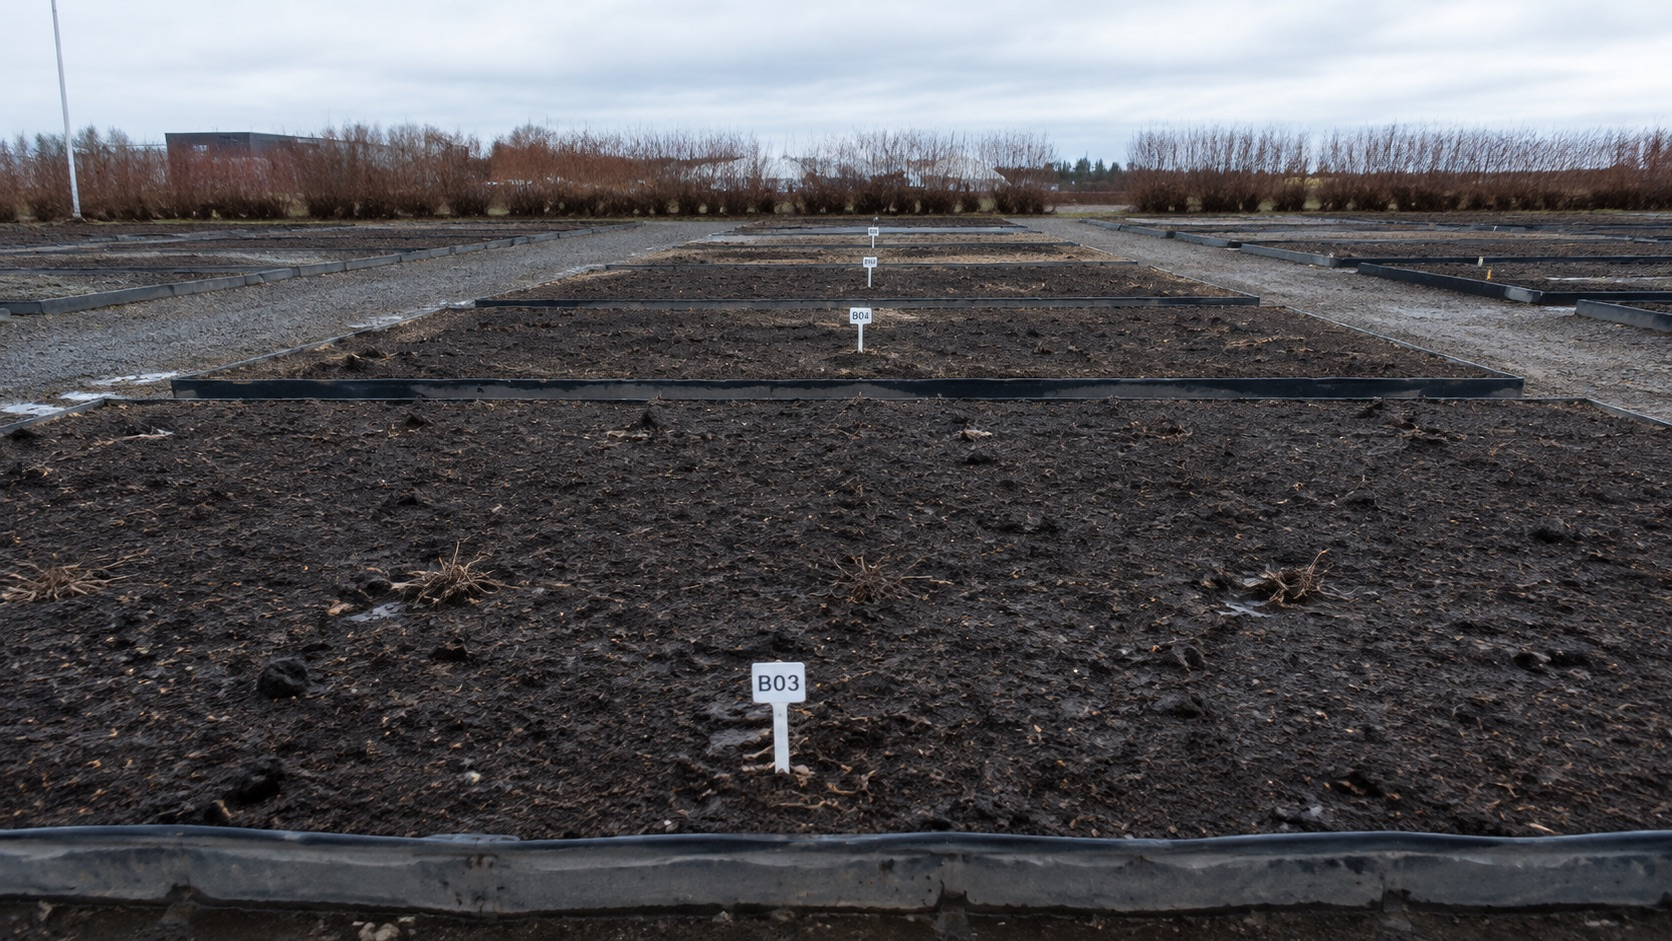
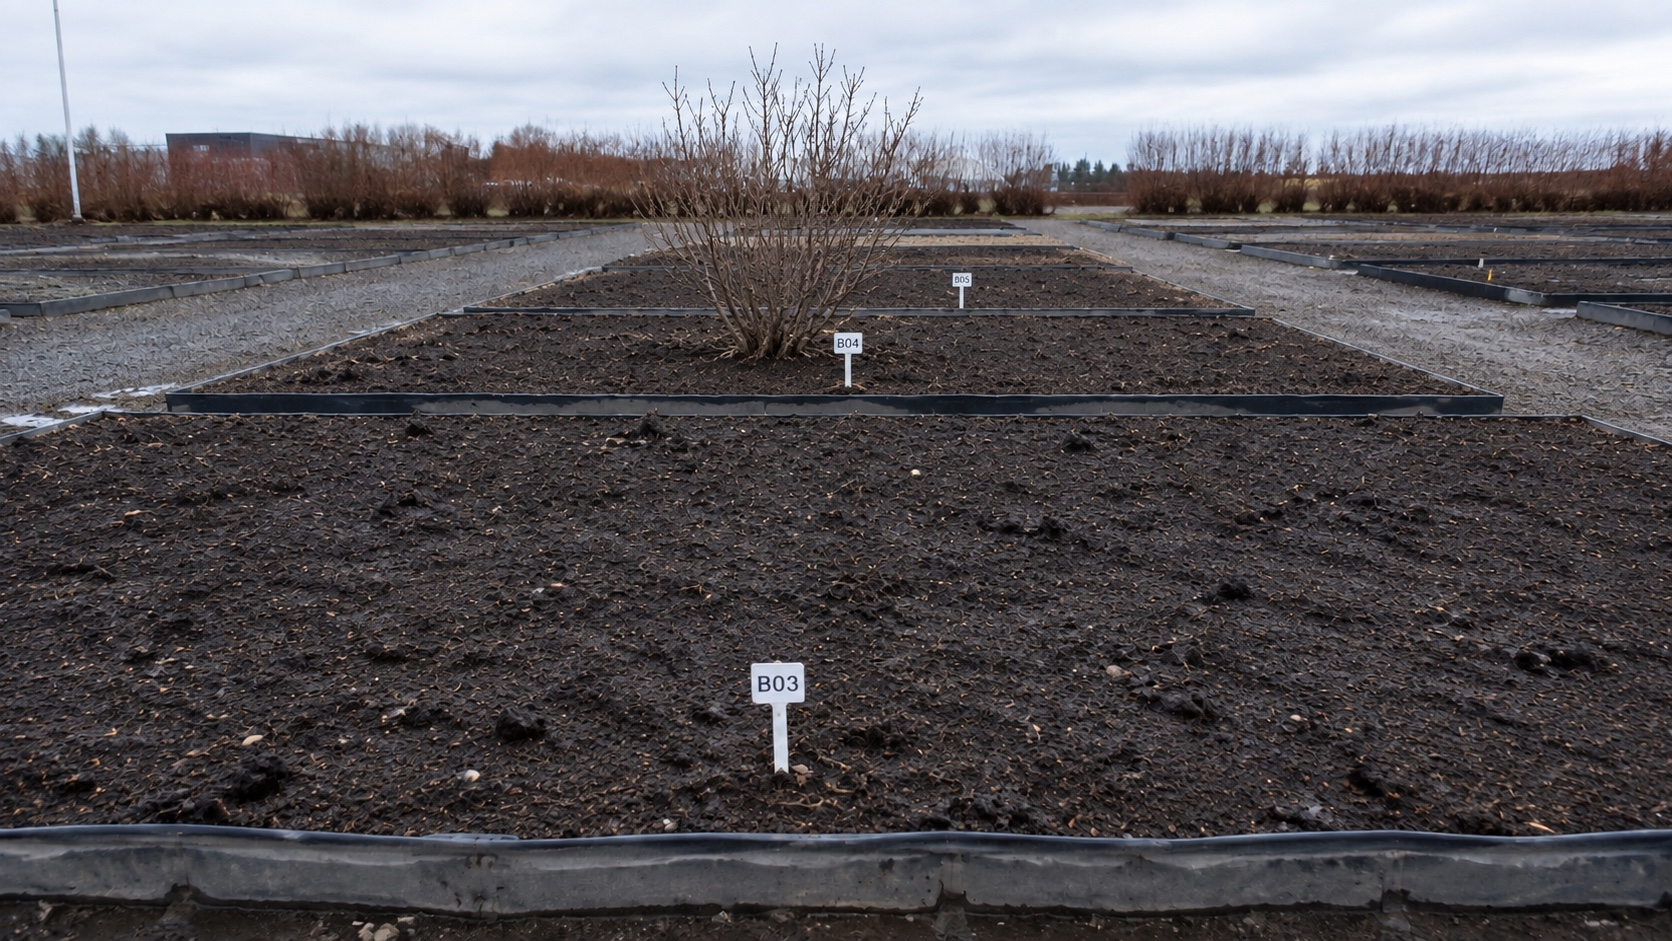
Clarify the novel timeline and evidence chain

Changed region(s): [[0.0, 0.0616, 1.0, 0.8937], [0.1866, 0.9862, 0.2488, 1.0], [0.0, 0.1541, 0.0622, 0.1849]]

diff --git a/js/reader.js b/js/reader.js
@@ -24,8 +24,8 @@ const chapterVisuals = {
   },
   'winter-beds': {
     src: '../assets/images/winter-trial-beds.jpg',
-    alt: 'Empty-looking winter nursery beds with B03, B04, and B05 markers',
-    label: 'RECORD 09 / RENA WINTER INVENTORY'
+    alt: 'Late-winter nursery beds B03, B04, and B05; a leafless woody hibiscus stands in B04 while the neighboring lily beds are bare above ground',
+    label: '冬季盘点中的B04：C株已经落叶，但地上枝条仍然存在；相邻百合床位看似空置，鳞茎在地下休眠。'
   },
   'condition-survey': {
     src: '../assets/images/condition-survey.jpg',

diff --git a/content/04-autumn.md b/content/04-autumn.md
@@ -2,9 +2,9 @@
 
 那年秋天来得很慢。
 
-后来想起时，我总觉得八月拖得格外长。天气迟迟没有凉下来，旧植物园里的草晒得发白，西温室外那排夹竹桃还在开。事故以后，铁丝网外多了一圈警戒带，红白相间，风大的时候会拍在金属网上。花从后面探出来，颜色亮得不合时宜。
+那一年的八月在记忆里格外长。天气迟迟没有凉下来，旧植物园里的草晒得发白，西温室外那排夹竹桃还在开。事故以后，铁丝网外多了一圈警戒带，红白相间，风大的时候会拍在金属网上。花从后面探出来，颜色亮得不合时宜。
 
-花期不会因为有人死了往后推，温室的施工也没有因此永久停下。需要迁走的植物照旧迁走，需要封闭的区域照旧封闭。事故调查占用了几天，之后工程重新排期，安全检查扩大了一轮，原本贴在门口的通知换成另一张。工作人员来来去去，有人负责清点器材，有人把临时堆放的东西从通道里搬走。
+花期不会因为有人死了往后推，温室的施工也没有因此永久停下。需要迁走的植物照旧迁走，需要封闭的区域照旧封闭。现场封锁和初步调查持续了几天；正式事故报告在几个月以后完成。工程随后重新排期，安全检查扩大了一轮，原本贴在门口的通知换成另一张。工作人员来来去去，有人负责清点器材，有人把临时堆放的东西从通道里搬走。
 
 H-17的B株也不在那里了。
 
@@ -12,9 +12,9 @@ H-17的B株也不在那里了。
 
 我知道。
 
-事故后的第二天傍晚，我才知道Rui已经死了。
+八月十八日十八点零七分，园方事故联络员打来电话，我才知道Rui已经死了。我不在Rui的紧急联系人名单里；园方先通知了家属，之后才按照前一日的现场人员名单找到我。
 
-上午的时候，我还以为已经在路上。
+八月十八日上午，我还以为Rui已经在去往外地项目的路上。
 
 按照前一天说好的安排，应该一早离开这座城，到另一个城市和项目组汇合。至少两个月，也可能更久。前一天我们刚吵过，所以一上午没有消息，我没有觉得奇怪。我甚至考虑过要不要主动说点什么，最后什么也没有发。
 
@@ -24,7 +24,7 @@ H-17的B株也不在那里了。
 
 那一天很长。我记得光很好，H-17开了花。我记得自己吃过东西，打开过电脑，做过一些现在已经想不起内容的工作。傍晚电话响起来以前，在我的认知里，Rui只是已经离开了这座城市。
 
-电话里的人先确认了一遍我的名字，又确认Rui的名字和地点。说到最后，内容其实很短：西温室，坠落，发现时已经没有生命迹象。
+电话里的人先确认我的名字，又确认Rui的名字和地点。内容很短：八月十八日十六点五十分，西温室，上层维护廊道，发现时已经没有生命迹象。
 
 后面的事情花了几个月。最开始几天，Rui的东西还在原来的地方。
 
@@ -62,9 +62,9 @@ Rui：明天带
 
 有一次Rui只发来一张模糊的玻璃屋顶，我把前后几天都翻完，仍想不起为什么。
 
-后来翻动的间隔越来越长，也没有哪一天特意做出“不看了”的决定。
+翻动聊天记录的间隔逐渐拉长，也没有哪一天特意做出“不看了”的决定。
 
-八月底，西温室西侧彻底封住。九月初，Rui桌上的东西被整理走。一本资料册后来到了建筑调查组，杯子不知道去了哪里。空出来的桌面先堆了几天纸箱，过了一阵又有人坐在那里。
+八月底，西温室西侧彻底封住。九月初，Rui桌上的东西被整理走。一本资料册被转交给建筑调查组，杯子不知道去了哪里。空出来的桌面先堆了几天纸箱，过了一阵又有人坐在那里。
 
 第一次看见时，那个人正低头接一条新的电脑支架。他不认识Rui，也不知道这张桌子以前是谁的；蓝色水杯旁边放着一盆很小的植物。我没有停。
 
@@ -78,7 +78,7 @@ Rui：明天带
 
 “那现在找谁？”
 
-后来就直接找别人。
+再有人来时，已经直接去找新的负责人。
 
 九月还有人问我Rui之前那批照片存在哪里。十月的时候，已经很少有人提名字。建筑调查有新的负责人，旧植物园里来的学生换了一批。再没有人站在门口问：“Rui今天来吗？”
 
@@ -100,7 +100,7 @@ Rui为什么那天晚上会回西温室？
 
 下午Rui告诉我，第二天一早就要走。项目至少两个月，什么时候结束说不准。
 
-同一天，H-17的B株也确定第二天移除。
+B株于八月十八日九点三十八分移出H-17。
 
 我那时候已经知道备用的C株成活，知道园艺组会继续养护，也知道所有更替都有记录。可那些正确的知识在那个下午没有发挥什么作用。
 
@@ -110,7 +110,7 @@ Rui说，照片也有。
 
 Rui没有否认。
 
-后来我发了脾气。
+我发了脾气。
 
 “那你就去记啊。在它明天不在这里以前。”
 
@@ -134,7 +134,7 @@ Rui说：“嗯。”
 
 这句话本身没有错。
 
-B株第二天就被移除了。
+B株于八月十八日九点三十八分移出H-17。
 
 于是我很自然地认为，那是Rui晚上回去以后拍的。
 
@@ -174,7 +174,7 @@ Saya沉默了一会儿。
 
 再往后，我甚至已经能够解释为什么。
 
-Rui知道B株第二天会被移除。
+Rui知道B株将在八月十八日早班移出H-17。
 
 Rui知道自己第二天会离开至少两个月。
 

diff --git a/content/07-lilium.md b/content/07-lilium.md
@@ -32,17 +32,11 @@ B株被移除以前，C株已经作为同批繁殖出的备用个体成活。这
 
 正常越冬。
 
-我继续往后翻。
-
-十二月，位置没有变化。
-
-一月，没有变化。
-
-二月，还是B04。
+接下来的三个月，B04没有出现位置变更：十二月，一月，二月，C株都在那里。
 
 旁边两床未纳入正式藏品的百合试验批次也始终在那里，状态从地上部分衰败逐渐统一成“休眠”。床位依旧检查，土壤依旧记录，鳞茎留在地下。
 
-我翻到下一季。
+下一季的盘点里，变化首先出现在相邻床位。
 
 B03——Lilium trial lot LT-03——萌发。
 
@@ -62,7 +56,7 @@ C株留在苗圃。
 
 [[visual:winter-beds]]
 
-后来才在合适的移植期进入原来的位置。
+后来等西温室西侧通过验收，C株才进入原来的位置。
 
 我坐在那里，想起Rui死后的第一个冬天。我很少回忆那几个月，因为没有什么值得回忆。秋天还有许多明确的事情：事故，葬礼，西温室封闭，工作台被清空，人们一开始小心翼翼地提起Rui，后来慢慢不再提。冬天反而什么都没有。天气冷下来以后，我生过一次普通的感冒。
 
@@ -74,7 +68,7 @@ C株留在苗圃。
 
 我只是在冬天没有死。
 
-我后来想不起那年第一朵春花是什么时候开的。可能在路边见过，也可能没有注意。某天我穿着厚外套出门，走到一半觉得热；下一次就换了薄一点的衣服。再之后，树开始重新有叶子。冬季库存只写：
+那年第一朵春花什么时候开，我已经想不起。可能在路边见过，也可能没有注意。某天我穿着厚外套出门，走到一半觉得热；下一次就换了薄一点的衣服。再之后，树开始重新有叶子。冬季库存只写：
 
 休眠。
 
@@ -100,13 +94,11 @@ C株留在苗圃。
 
 “还有一株植物整个冬天没挪过。”
 
-Toma沉默两秒。
+Toma把复印件推回来。“它整个冬天没动，你倒是天天往那边跑。”
 
-“听起来收获很大。”
+我说：“嗯。”
 
-我笑了。
-
-“确实。”
+“那至少先坐下。”
 
 第二天我去找Dr.K。前一晚下过雨。新的分区牌立在路口，图上那排狭长床位已经看不出来了。
 
@@ -116,7 +108,7 @@ Dr.K往前指了一段。“差不多就是这片。”
 
 “B移掉以后，也没马上去H-17？”
 
-“冬天移它干什么？”
+“那时西边还没有交回来。”Dr.K说，“临时支撑和场地验收都没结束，H-17不能接收C。它先留在苗圃。”
 
 “如果当晚什么都没发生，B第二天还是会移除？”
 
@@ -134,11 +126,7 @@ Dr.K问：“你最近在查事故？”
 
 我说：“嗯。”
 
-“事故资料和植物记录不是一套东西。”
-
-“我知道。”
-
-“那就别混。”
+“C的去向查植物卷，事故经过查安全卷。”Dr.K说，“别拿一套记录替另一套回答。”
 
 我又问：“B和C最开始从哪来的？”
 
@@ -154,7 +142,7 @@ Dr.K问：“你最近在查事故？”
 
 “再往前还有引种材料、采集来源。数据库有起点。植物未必。”
 
-Dr.K说完才发现一张旧标签粘在袖口上。
+一张旧标签粘在Dr.K袖口上。他低头摘掉，揉成一小团。
 
 我在纸上写下1998/0412\*A，原本想在旁边标“起点”。笔尖停了一会儿，我把那两个字划掉。
 
@@ -172,9 +160,7 @@ Dr.K说完才发现一张旧标签粘在袖口上。
 
 这个可能比罪恶感更难接受。罪恶至少还意味着一件事和你有关。
 
-我打开相机原始文件的申请页面，提交了调取申请。
-
-系统提示，材料需要从旧项目存档中恢复。
+我查了一次申请状态。页面仍然写着：旧项目存档恢复中。
 
 那天晚上，我第一次没有问：
 

diff --git a/content/06-hibiscus.md b/content/06-hibiscus.md
@@ -6,6 +6,8 @@
 
 我改过很多次。最后一个版本放在文件夹最上面，下面是一长串自动保存的旧版本。它的日期在事故几个月以后；确实是在Rui死后完成的。
 
+版本详情显示，同一个文档ID从八月十八日延续到冬天，中间没有导入、复制或重建记录。
+
 我向下翻到最早的一项。
 
 那时候它还没有标题。
@@ -26,6 +28,7 @@ META|Last modified 18 AUG · 16:32
 两个月其实也没有很久。等你回来，H-17应该已经不是现在这样了。
 或者那里已经什么都没有。
 总之你也看不到。
+今天的花下午就开始蔫了。
 DEL|你走得倒很容易。
 NOTE|deleted in revision
 ADD|算了。
@@ -71,17 +74,17 @@ META|Added after 18 AUG
 
 于是我没有再发。
 
+九点二十七分，我到了旧植物园。B株还在H-17，我数过那四朵花，其中一朵刚刚打开。九点三十八分，园艺组把它连同根团移到周转区。
+
 十一点以前，我打开电脑，开始写那份草稿。
 
-与此同时，在我完全不知道的地方，Rui原定汇合的项目组已经发现人没有出现。
+我断断续续写到下午。十六点十八分，我又去看了一次。早晨新开的那朵已经垂下去，花冠边缘缩在一起。回到电脑前，我写下“今天的花下午就开始蔫了”。版本1最后保存于十六点三十二分。
 
-起初大概也没人想到死亡。错过交通、手机没电、临时改变路线，任何一种解释都比事故普通。项目负责人开始联系Rui原来的建筑调查团队和旧植物园，有人去查前一天的出入记录。
+Rui原定在八月十八日下午三点到外地项目报到。十五点一刻仍未出现，项目协调员联系本人无果，又联系了他原来的建筑调查负责人。对方记得Rui前一晚准备回西温室补一组资料，于是园方值班经理调取门禁并组织核查。当天上午进场的施工班组只在地面区卸放材料，没有进入封闭的上层维护廊道。
 
-这些事情发生的时候，我正在写：
+十六点五十分，园方安全员和施工现场负责人在上层维护廊道区域发现Rui。园方随即报警并联系紧急联系人。家属获知以后，事故联络员才按照前一日的现场人员名单联系我。
 
-敬启，现在你还好吗？
-
-我关掉版本1，在前一天的表格上添了一项。
+我在表格里只留下一项。
 
 无标题文字，版本1。
 
@@ -89,29 +92,20 @@ META|Added after 18 AUG
 
 最后修改：下午四时三十二分。
 
-我在“可靠性”一栏写：
+可靠性：能够证明那个白天我的认知；不能证明八月十七日夜里发生的事。
 
-对于当时的主观认知：高。
+花期记录、项目安排和行程材料分别确认了草稿中的几个事实。它们确认了我以为Rui正在路上，没有确认Rui为什么回到西温室。
 
-对于八月十七日实际发生的事件：低。
+第二天下午，我先调出八月十八日的原始记录。
 
-我把最早的版本从头读了第三遍。
+[[record]]
+18 AUG
+08:12　H-17 / 2014/0826\*B：开放花4，其中新开1
+09:38　植株移出H-17，转园艺周转区
+16:18　移出后状态复核：花冠萎垂，根颈腐朽情况确认
+[[/record]]
 
-这一次，我只看其中能够被外部确认的句子。
-
-H-17早晨开花。
-
-可以查当天记录。
-
-Rui原计划离城。
-
-可以查项目安排。
-
-两个月。
-
-可以查。
-
-第二天下午，我调出那本原始记录册。封面的年份比事故早一年。
+接着，我调出那本写着“这里没什么好留恋”的原始记录册。封面的年份比事故早一年。
 
 那天H-17也有记录。
 

diff --git a/content/05-phase-shift.md b/content/05-phase-shift.md
@@ -92,7 +92,7 @@
 
 第二项是H-17。
 
-B株次日移除。
+B株于八月十八日九点三十八分移出H-17。
 
 来源：活体藏品记录、迁出安排。
 
@@ -262,9 +262,9 @@ Rui说：“这里没什么好留恋。”
 
 照片导出件更糟。有的文件名被改过，有的打印出来以后连拍摄时间都没有。我曾经把它们按照自己理解的顺序保存，却从来没有保留原始来源关系。
 
-我翻得越来越快，手已经移到事故资料目录上。门禁和相机原始文件会给出准确时间，只要重建死亡那一天，许多空白都能立刻填上。我在链接上停了一会儿，还是关掉了页面。兰科项目的退出邮件躺在左手边，纸上那道划掉“说明”的墨痕还没有干。
+事故资料目录单独列着门禁、监控、相机原始文件和服务器导入日志。相机文件需要从旧项目存档恢复，我当场提交了调取申请。系统给出预计时间：三个工作日。
 
-先看来源。
+等待期间，我先处理手里已经能够核实的纸质来源。
 
 下午快结束时，我终于把所有八月十七日的材料分成了三堆。
 
@@ -292,13 +292,11 @@ Rui说：“这里没什么好留恋。”
 
 我看了一遍，把目录夹进文件袋。
 
-回家以后，我想起自己在事故第二天写过一个文件。
+回家以后，我想起自己在八月十八日用旧账号写过一个文件。
 
-很多年前换电脑时，我把它和一批旧文档一起迁进了云端。后来很少打开，但应该还在。
+那时我就直接用这个账号写东西。后来只换过电脑，没有下载、另存或重新上传；文档和修订记录始终属于同一个文件。
 
-我登录旧账号，搜了几次。
-
-换了两次关键词，文件出现在结果里。
+我登录旧账号，换了两次关键词，找到了那份没有标题的文档。
 
 没有标题。
 

diff --git a/content/09-remanence.md b/content/09-remanence.md
@@ -60,7 +60,7 @@ Toma抬头：“怎么了？”
 
 当天晚上，我路过一家街角园艺店，门外摆着几盆木槿。它们是普通商品，装在塑料盆里，标签上只有品种名和价格。其中一盆开了一朵颜色很浅的花。店员出来问我要不要看，我说不用；走出去几步以后，又回去买了。
 
-拿回家才发现盆比我在店里看着大，窗边放不下，只好先搁在桌角。Toma第二天视频时看到，问：“你现在还养这个？”
+搬回家后，花盆比在店里显得大，窗边放不下，只好先搁在桌角。Toma第二天视频时看到，问：“你现在还养这个？”
 
 “什么叫还？”
 
@@ -106,7 +106,7 @@ Saya看着我。“Rui的？”
 
 十二月的一个周末，我把从旧植物园带回来的纸箱拆开折平，和其他包装一起送去回收。盒子空了几个月，纸板已经有一点软。回来时桌边空出一块，两天以后就看惯了。
 
-入冬以后，那盆木槿的叶子陆续落掉。到冬末，枝条看起来什么也没有。我知道它在休眠，便没有检查。早春时芽点开始膨大。
+入冬以后，那盆木槿的叶子陆续落掉。到冬末，枝条看起来什么也没有。我知道它在休眠，没有再隔几天就去确认枝条是不是还活着。早春时芽点开始膨大。
 
 某天下班晚，走出楼门才发现天还亮着。风没有冬天那么硬，路边一棵不知道名字的树冒了很小的新叶。我站在路口等灯，绿灯亮以后跟着人群往前。
 

diff --git a/content/02-hydrangea.md b/content/02-hydrangea.md
@@ -124,6 +124,12 @@ Rui看了我两秒。
 
 Rui说：“现在也行。”
 
+Rui还总点菜单上刚贴出来的新品。十次里大概有八次不好吃，下一次看见新的仍然会点。
+
+我问：“为什么？”
+
+Rui说：“想吃。”
+
 我拧开水瓶喝了一口。
 
 坡下有人拍照。
@@ -134,7 +140,7 @@ Rui说：“现在也行。”
 
 我低头看平台下的花。
 
-有一簇开得很杂。靠左的一部分偏蓝，越往右越接近紫红。同一个花序上也有颜色深浅不同的花瓣。
+有一簇开得很杂。靠左的一部分偏蓝，越往右越接近紫红。同一个花序上，显眼的萼片也有不同的颜色深浅。
 
 我站了一会儿，拿出手机。
 
